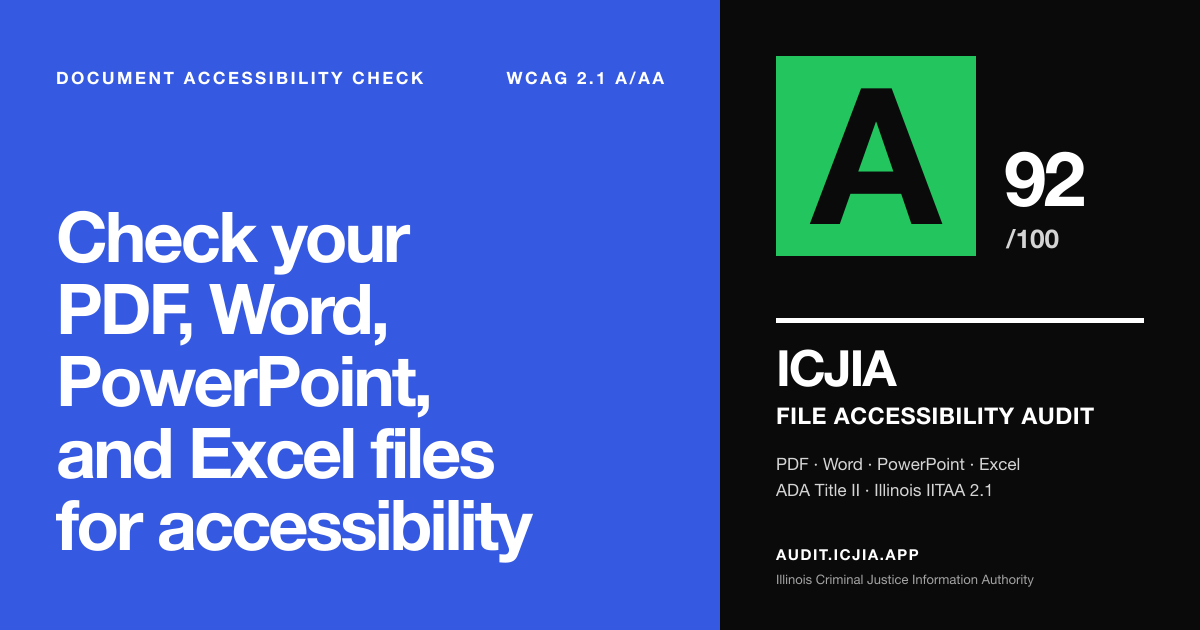
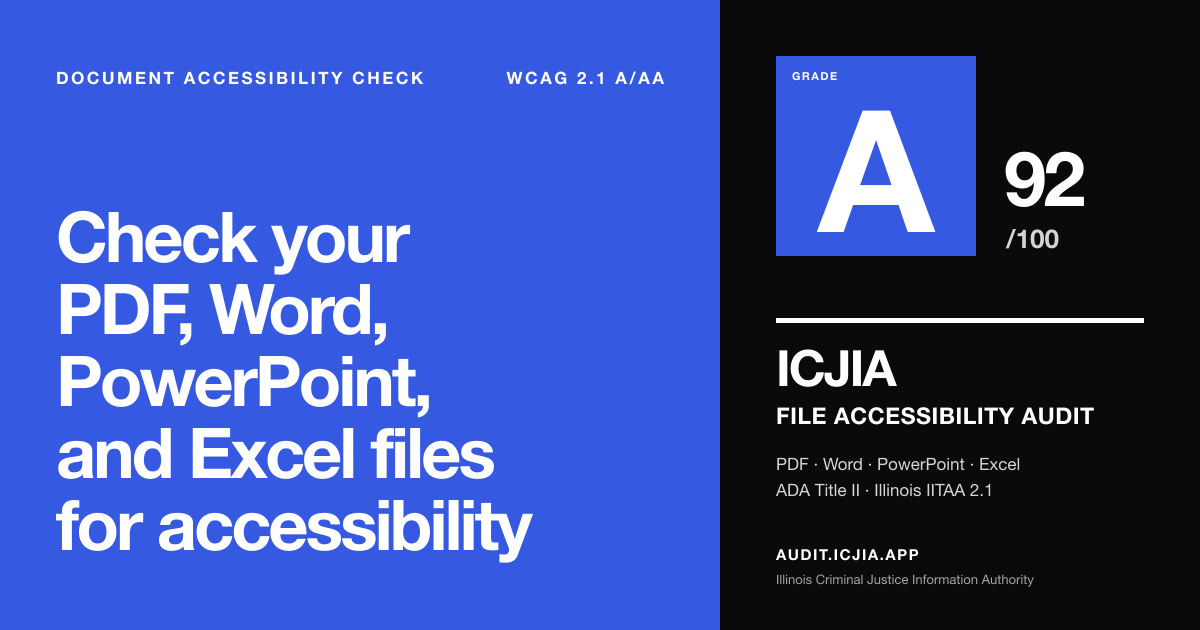
fix(report): a gutter between the verdict strip and the 'cannot check' block; README home screenshot; og:image grade block matches the report
The two blocks under the report hero sat 4px apart, so the amber block's rule ran against the verdict strip's border; they now have a real gutter.

README gains a screenshot of the home page in the new look. The og:image drew the grade as a green block with a knocked-out letter, which is how the report looked for a few hours of the redesign; it now draws the blue block with the white letter that shipped.

No version change: presentation only, no route, input, stored field or scoring touched.

Changed region(s): [[0.6475, 0.0905, 0.8325, 0.4222]]

diff --git a/scripts/rebrand.ts b/scripts/rebrand.ts
@@ -394,9 +394,10 @@ function buildOgImageSvg(): string {
   <text x="664" y="84" text-anchor="end" ${font} font-size="17" font-weight="700" fill="#ffffff" letter-spacing="2.5">WCAG 2.1 A/AA</text>
 ${headline}
 
-  <!-- Grade block: the letter knocked out of a solid block in the grade colour -->
-  <rect x="776" y="56" width="200" height="200" fill="#22c55e"/>
-  <text x="876" y="224" text-anchor="middle" ${font} font-size="190" font-weight="800" fill="#0a0a0a">A</text>
+  <!-- Grade block, as the report draws it: the letter in white on the brand colour -->
+  <rect x="776" y="56" width="200" height="200" fill="#3559e0"/>
+  <text x="792" y="80" ${font} font-size="11" font-weight="700" fill="#ffffff" letter-spacing="1.5">GRADE</text>
+  <text x="876" y="232" text-anchor="middle" ${font} font-size="170" font-weight="800" fill="#ffffff">A</text>
   <text x="1004" y="206" ${font} font-size="76" font-weight="800" fill="#ffffff" letter-spacing="-3">92</text>
   <text x="1006" y="248" ${font} font-size="26" font-weight="700" fill="#d4d4d4">/100</text>
 

diff --git a/apps/web/app/components/ReportVisualView.vue b/apps/web/app/components/ReportVisualView.vue
@@ -79,7 +79,7 @@
          the plan and tiles: a page-audit row (no categories[]) must not get a
          legal-verdict box the axe results could contradict. -->
     <div v-if="hasCategories" class="mb-12 @5xl:mb-20">
-      <div class="grid gap-1 @5xl:grid-cols-5">
+      <div class="grid gap-6 @5xl:gap-8 @5xl:grid-cols-5">
         <TwoStandardsStrip
           :conformance="result.conformance"
           :wcag-version="wcag.version"

diff --git a/README.md b/README.md
@@ -8,6 +8,8 @@
 
 A web tool that **audits** PDF, Word (.docx), PowerPoint (.pptx), and Excel (.xlsx) accessibility — and **(optionally) auto-remediates** PDFs — against [WCAG 2.1 AA](https://www.w3.org/WAI/WCAG21/quickref/) (the legal minimum under [IITAA 2.1 §E205.4](https://dhs.illinois.gov/accessibility/iitaa/iitaa-standards.html) and [ADA Title II](https://www.ada.gov/resources/title-ii-rule/)), and [Illinois IITAA 2.1](https://doit.illinois.gov/initiatives/accessibility.html) — all on infrastructure you control, with no AI and no per-document fees. WCAG 2.1 is the displayed standard; to display WCAG 2.2 instead set `WCAG_VERSION=2.2` and redeploy (API reverts on restart; web UI on rebuild).
 
+![The home page in dark mode. A top bar carries a small blue square and the site name, ICJIA ACCESSIBILITY AUDIT, with links to "Can I trust this?", FAQs, What's New, Technical and Status, a theme switch and a green "audit server online" light. Below, a large blue block holds the labels "Document accessibility check" and "WCAG 2.1 A/AA", the headline "Check your PDF, Word, PowerPoint, and Excel files for accessibility" in very large white type, a short paragraph naming WCAG 2.1, ADA Title II and IITAA 2.1 as links, and links to a sample report and to "What about WCAG 2.2?". To its right is the upload box, outlined with a thick dashed white line, reading "Drop PDF, Word, PowerPoint, or Excel files here — or click to browse — up to 25 files, max 25 MB each", and under it a form labelled "…or check a document by link" with a web-address field and a "Check this link" button.](docs/images/home.png)
+
 ## What it does
 
 | | Feature | Detail |
